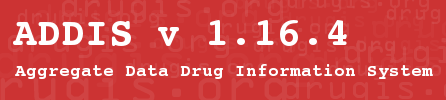
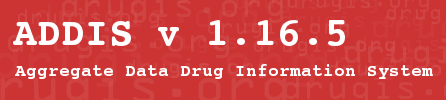
ADDIS 1.16.5 automated changes

Changed region(s): [[0.7287, 0.18, 0.787, 0.48]]

diff --git a/installer/src/izpack/README.html b/installer/src/izpack/README.html
@@ -22,6 +22,8 @@ modern operating systems ship with a suitable JRE.</p>
 
 <h2>Versions</h2>
 
+<p>1.16.5: Bugfix release.</p>
+
 <p>1.16.4: JSON export of benefit-risk models; bugfixes.</p>
 
 <p>1.16.3: Bugfix release.</p>
